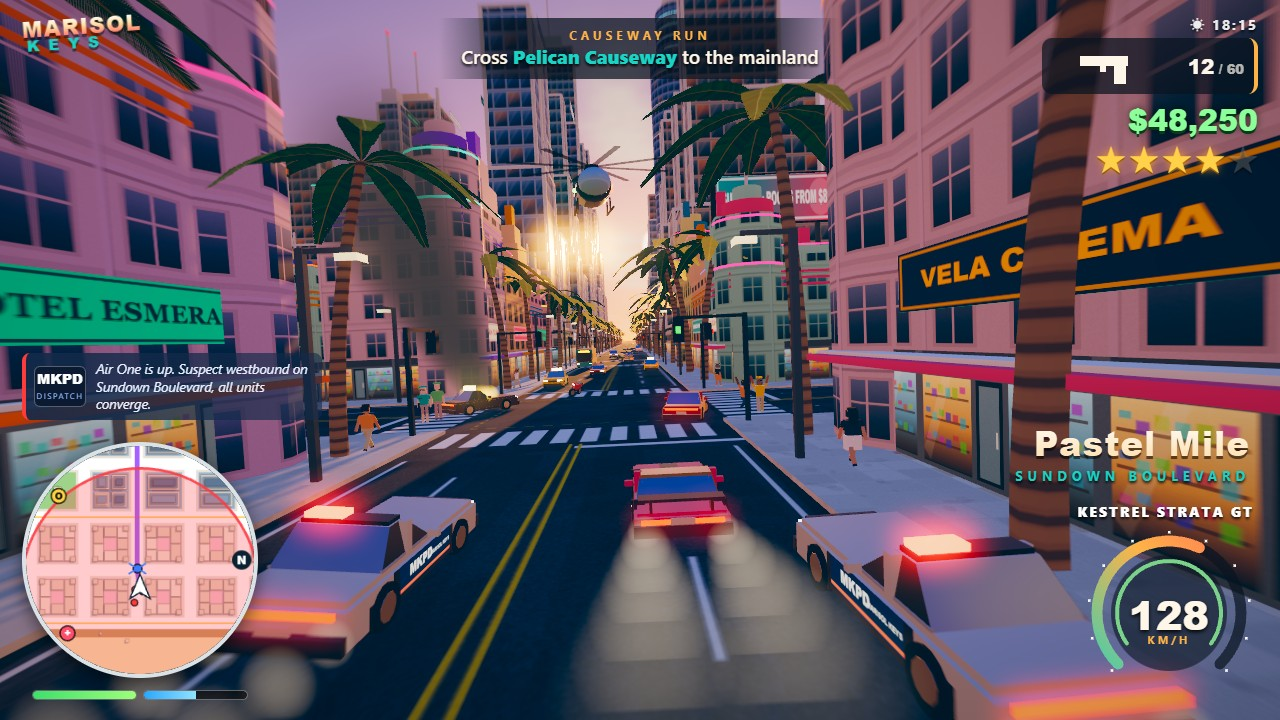
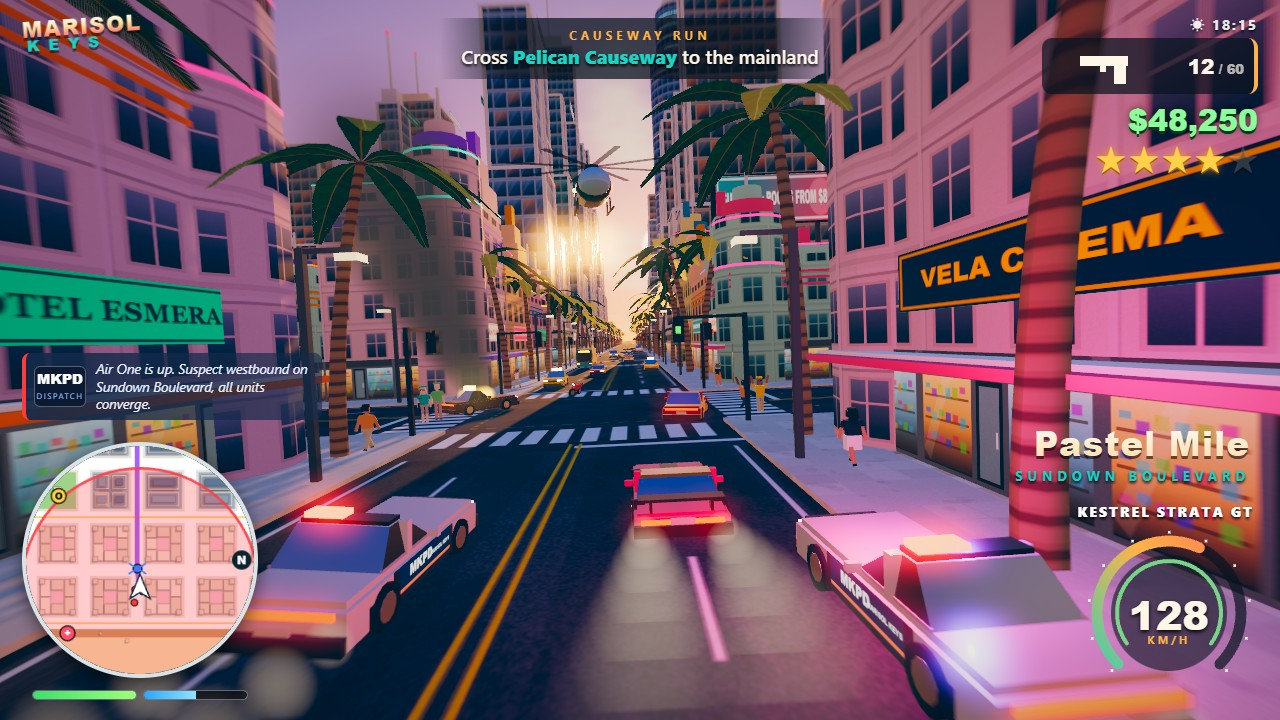
Siren light spill: red and blue lights follow the nearest cruiser's light bar

diff --git a/game/src/fx/frameRenderer.js b/game/src/fx/frameRenderer.js
@@ -41,6 +41,25 @@ function trimShadowCasters(game, state, focus) {
   }
 }
 
+// Red and blue light from the nearest cruiser's light bar splashes onto the road and cars.
+function flashSirens(game, focus) {
+  const pool = game.sirenLights;
+  if (!pool) return;
+  let best = null, bd = 60 * 60;
+  for (const v of game.vehicles.list) {
+    if (!v.sirenOn || v.wrecked) continue;
+    const d = (v.pos.x - focus.x) ** 2 + (v.pos.z - focus.z) ** 2;
+    if (d < bd) { bd = d; best = v; }
+  }
+  const phase = Math.floor(game.time * 6) % 2;
+  pool.forEach((l, k) => {
+    if (!best) { l.intensity = 0; return; }
+    const r = best.right();
+    l.position.set(best.pos.x + r.x * (k ? 0.6 : -0.6), best.pos.y + best.spec.height + 0.6, best.pos.z + r.z * (k ? 0.6 : -0.6));
+    l.intensity = (k === phase ? 26 : 12);
+  });
+}
+
 export function renderFrame(game) {
   fitToWindow(game.renderer, game.threeCamera);
   const state = game.weather.apply(skyStateAt(game.state.hour));
@@ -53,6 +72,7 @@ export function renderFrame(game) {
   lightTheCity(game, state);
   placeNightLamps(game, state, focus);
   trimShadowCasters(game, state, focus);
+  flashSirens(game, focus);
   const v = game.player.vehicle;
   const speedBlur = v ? Math.max(0, Math.abs(v.speed) - 24) / 40 : 0;
   game.post.render(game.scene, game.threeCamera, { exposure: 1.0 + state.night * 0.35, bloom: 0.45 + state.night * 0.5, speedBlur: Math.min(0.6, speedBlur) });

diff --git a/game/src/core/game.js b/game/src/core/game.js
@@ -134,6 +134,12 @@ export class Game {
       this.scene.add(l);
       pool.push(l);
     }
+    // two siren lights (red, blue) that follow the nearest cruiser with its lights on
+    this.sirenLights = ['#ff2a2a', '#2a5bff'].map((c) => {
+      const l = new THREE.PointLight(c, 0, 18, 1.4);
+      this.scene.add(l);
+      return l;
+    });
     return pool;
   }
 
